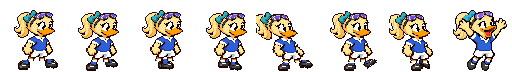
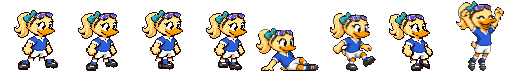
football art: Gemini-made poses for fayzah (shot follow-through, standing tackle, slide, dive, receiving, celebration), cut / scaled / palette-snapped to the original art, red kit mapped from blue; tools/pixel/gemini_cut.py + gemini_place.py

Changed region(s): [[0.875, 0.0278, 1.0, 1.0], [0.5, 0.1667, 0.625, 1.0], [0.625, 0.1667, 0.75, 1.0]]

diff --git a/tools/pixel/gemini_cut.py b/tools/pixel/gemini_cut.py
@@ -1,0 +1,95 @@
+"""Cut the figures out of a Gemini sprite sheet (magenta background), scale them to the game's pixel size and snap
+their colours to the original sprite's palette. Usage: python cut.py sheet.jpg ref_sprite.png out_prefix [stand_h]"""
+import sys
+from collections import deque
+import numpy as np
+from PIL import Image
+
+src, refp, out = sys.argv[1], sys.argv[2], sys.argv[3]
+im = np.array(Image.open(src).convert("RGB")).astype(int)
+H, W, _ = im.shape
+r, g, b = im[..., 0], im[..., 1], im[..., 2]
+bg = ((r > 140) & (b > 140) & (g < 130) & (abs(r - b) < 90)) | ((r - g > 75) & (b - g > 75) & (abs(r - b) < 70))
+fg = ~bg
+
+# connected components on a coarse grid (fast), then merge small bits into the nearest big one
+S = 4
+h2, w2 = H // S, W // S
+grid = fg[: h2 * S, : w2 * S].reshape(h2, S, w2, S).any(axis=(1, 3))
+lab = np.zeros((h2, w2), int)
+n = 0
+for y in range(h2):
+    for x in range(w2):
+        if grid[y, x] and not lab[y, x]:
+            n += 1
+            q = deque([(y, x)])
+            lab[y, x] = n
+            while q:
+                cy, cx = q.popleft()
+                for dy in (-1, 0, 1):
+                    for dx in (-1, 0, 1):
+                        ny, nx = cy + dy, cx + dx
+                        if 0 <= ny < h2 and 0 <= nx < w2 and grid[ny, nx] and not lab[ny, nx]:
+                            lab[ny, nx] = n
+                            q.append((ny, nx))
+sizes = np.bincount(lab.ravel())
+comps = []
+for i in range(1, n + 1):
+    if sizes[i] < 40:
+        continue
+    ys, xs = np.where(lab == i)
+    comps.append([xs.min() * S, xs.max() * S + S, ys.min() * S, ys.max() * S + S, i, sizes[i]])
+comps.sort(key=lambda c: c[0])
+print("figures:", len(comps), [(c[0], c[1], c[2], c[3]) for c in comps])
+
+# the reference: palette and standing height
+ref = Image.open(refp).convert("RGBA")
+fr = np.array(ref.crop((0, 0, 64, 72)))
+op = fr[..., 3] > 0
+ys = np.where(op.any(1))[0]
+ref_h = ys.max() - ys.min() + 1
+pal = np.unique(fr[op][:, :3], axis=0).astype(int)
+print("ref height", ref_h, "palette", len(pal))
+
+# scale: the first figure is a standing-ish pose; its height maps to the reference height
+stand = comps[0]
+scale = ref_h / (stand[3] - stand[2]) * (float(sys.argv[4]) if len(sys.argv) > 4 else 1.0)
+print("scale", scale)
+frames = []
+for k, (x0, x1, y0, y1, i, _) in enumerate(comps):
+    mask = np.zeros((H, W), bool)
+    m = (lab == i)
+    mask[: h2 * S, : w2 * S] = np.repeat(np.repeat(m, S, 0), S, 1)
+    mask &= fg
+    crop = im[y0:y1, x0:x1]
+    a = mask[y0:y1, x0:x1]
+    w = max(1, round((x1 - x0) * scale))
+    h = max(1, round((y1 - y0) * scale))
+    rgb = Image.fromarray(crop.astype(np.uint8)).resize((w, h), Image.BOX)
+    al = Image.fromarray((a * 255).astype(np.uint8)).resize((w, h), Image.BOX)
+    rgb = np.array(rgb).astype(int)
+    al = np.array(al) > 150
+    # snap to the palette
+    d = ((rgb[..., None, :] - pal[None, None, :, :]) ** 2).sum(-1)
+    snapped = pal[d.argmin(-1)]
+    # a clean dark outline like the original art: opaque pixels on the edge that took a magenta tint become ink
+    dark = pal[(pal.sum(1)).argmin()]
+    pad = np.pad(al, 1)
+    edge = al & ~(pad[:-2, 1:-1] & pad[2:, 1:-1] & pad[1:-1, :-2] & pad[1:-1, 2:])
+    tint = (snapped[..., 0] - snapped[..., 1] > 30) & (snapped[..., 2] - snapped[..., 1] > 30)
+    snapped[edge & tint] = dark
+    outp = np.zeros((h, w, 4), np.uint8)
+    outp[..., :3] = snapped
+    outp[..., 3] = al * 255
+    frames.append(Image.fromarray(outp))
+    Image.fromarray(outp).save(f"{out}_{k}.png")
+# preview
+pw = sum(f.width + 8 for f in frames)
+ph = max(f.height for f in frames)
+pv = Image.new("RGBA", (pw, ph), (40, 120, 40, 255))
+x = 0
+for f in frames:
+    pv.paste(f, (x, ph - f.height), f)
+    x += f.width + 8
+pv.resize((pv.width * 4, pv.height * 4), Image.NEAREST).save(f"{out}_preview.png")
+print([f.size for f in frames])

diff --git a/tools/pixel/gemini_place.py b/tools/pixel/gemini_place.py
@@ -1,0 +1,60 @@
+"""Put the cut Gemini frames into a character's moves / extra strips (blue), aligned to the old frames (same bottom,
+same centre), and make the red kit by mapping blue-kit colours to red-kit colours (learnt from the two base strips).
+Usage: python place.py <char> <prefix> <assets dir>"""
+import sys
+import numpy as np
+from PIL import Image
+
+char, pre, A = sys.argv[1], sys.argv[2], sys.argv[3]
+# frame index of the cut sheet -> (strip, frame, frame width)
+PLAN = {0: [("extra", 5, 64)], 1: [("moves", 3, 96)], 2: [("moves", 4, 96), ("extra", 4, 64)], 3: [("moves", 1, 96)], 4: [("moves", 9, 96)], 5: [("extra", 7, 64)]}
+
+
+def bbox(a):
+    ys, xs = np.where(a[..., 3] > 0)
+    return xs.min(), xs.max(), ys.min(), ys.max()
+
+
+# blue -> red colour map from the base strips (same art, other kit)
+bb = np.array(Image.open(f"{A}/{char}-blue.png").convert("RGBA"))
+rb = np.array(Image.open(f"{A}/{char}-red.png").convert("RGBA"))
+cmap = {}
+votes = {}
+for c1, c2 in zip(bb.reshape(-1, 4), rb.reshape(-1, 4)):
+    if c1[3] == 0:
+        continue
+    k = tuple(c1[:3])
+    votes.setdefault(k, {}).setdefault(tuple(c2[:3]), 0)
+    votes[k][tuple(c2[:3])] += 1
+for k, v in votes.items():
+    cmap[k] = max(v, key=v.get)
+print("colour map", len(cmap), "changed", sum(1 for k, v in cmap.items() if k != v))
+
+for team in ("blue", "red"):
+    strips = {s: np.array(Image.open(f"{A}/{s}/{char}-{team}.png").convert("RGBA")) for s in ("moves", "extra")}
+    for k, targets in PLAN.items():
+        f = np.array(Image.open(f"{pre}_{k}.png").convert("RGBA"))
+        if team == "red":
+            f = f.copy()
+            for y in range(f.shape[0]):
+                for x in range(f.shape[1]):
+                    if f[y, x, 3]:
+                        f[y, x, :3] = cmap.get(tuple(f[y, x, :3]), tuple(f[y, x, :3]))
+        fx0, fx1, fy0, fy1 = bbox(f)
+        f = f[fy0 : fy1 + 1, fx0 : fx1 + 1]
+        h, w = f.shape[:2]
+        for s, idx, fw in targets:
+            st = strips[s]
+            old = st[:, idx * fw : (idx + 1) * fw].copy()
+            ox0, ox1, oy0, oy1 = bbox(old)
+            cx = (ox0 + ox1) / 2
+            x = int(round(cx - w / 2))
+            y = oy1 + 1 - h
+            x = max(0, min(fw - w, x))
+            y = max(0, min(72 - h, y))
+            new = np.zeros_like(old)
+            new[y : y + h, x : x + w] = f
+            st[:, idx * fw : (idx + 1) * fw] = new
+    for s, st in strips.items():
+        Image.fromarray(st).save(f"{A}/{s}/{char}-{team}.png")
+print("ok")
